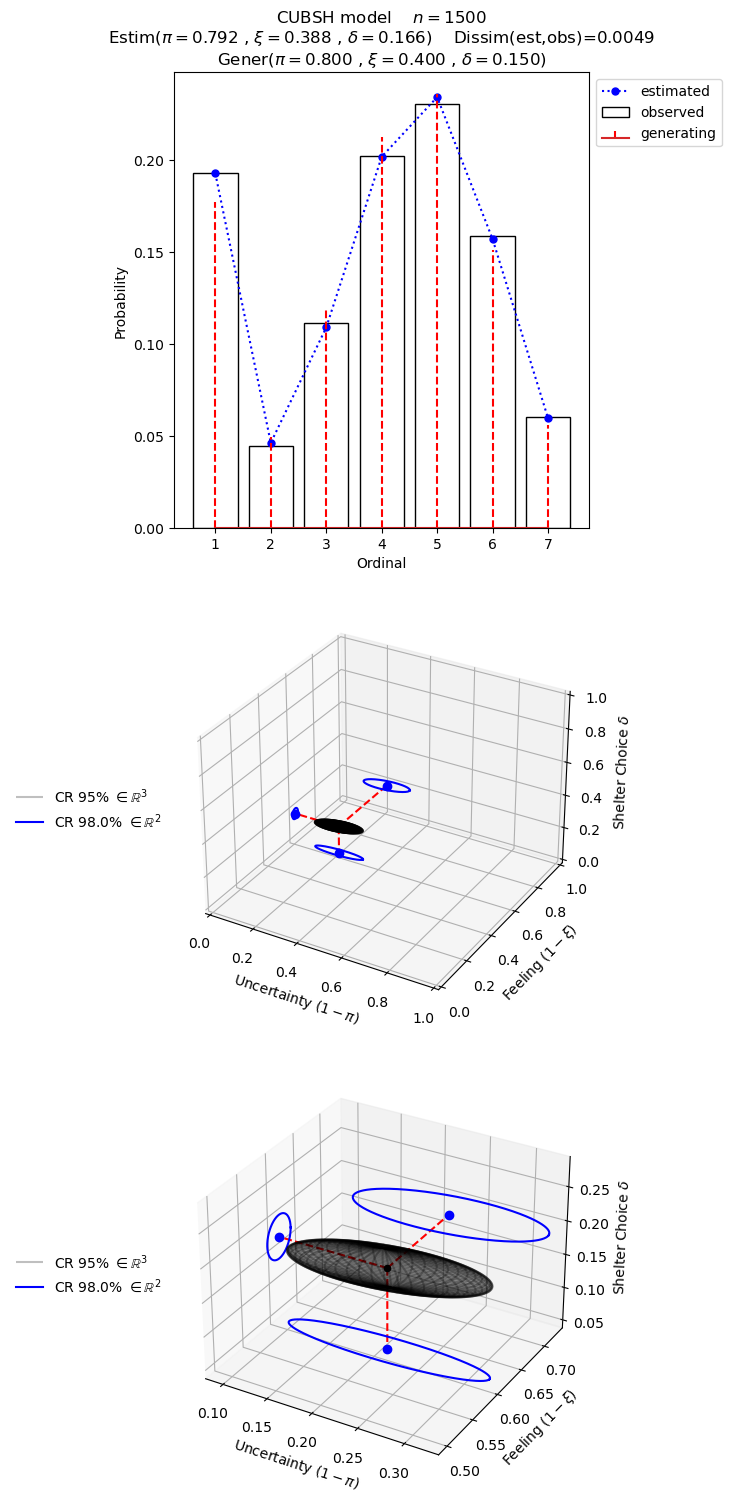
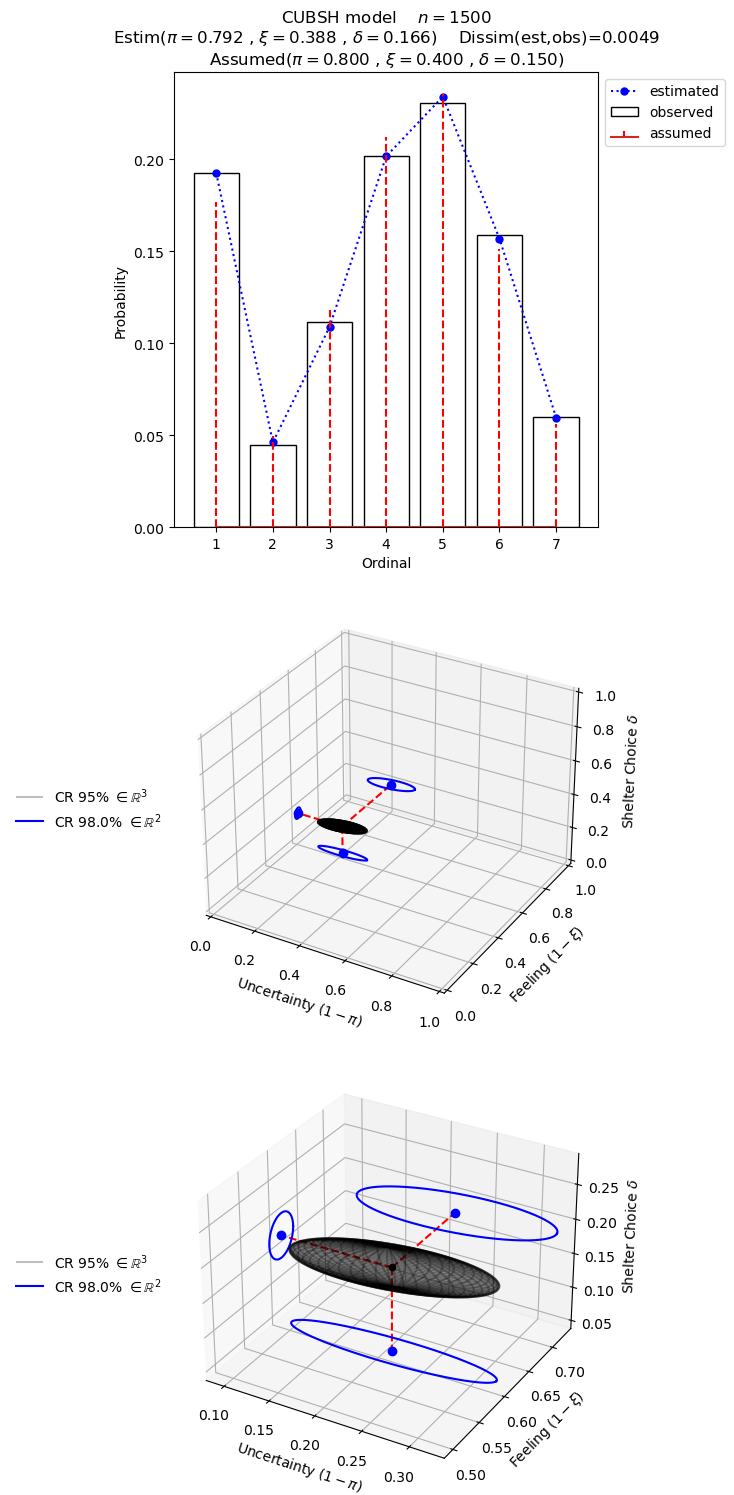
(generating, generator, Gener) > Assumed

diff --git a/cubmods/cush.py b/cubmods/cush.py
@@ -363,10 +363,10 @@ class CUBresCUSH(CUBres):
         if self.ass_pars is not None:
             delta_gen = self.ass_pars["delta"]
             title += "\n"
-            title += fr"Gener($\delta={delta_gen:.3f}$)"
+            title += fr"Assumed($\delta={delta_gen:.3f}$)"
             p_gen = pmf(m=self.m, sh=self.sh, delta=delta_gen)
             ax.stem(R, p_gen, linefmt="--r",
-                markerfmt="none", label="generator")
+                markerfmt="none", label="assumed")
         if kind == "bar":
             ax.bar(R, self.f/self.n,
                 facecolor="None",
@@ -427,7 +427,7 @@ class CUBresCUSH(CUBres):
             delta_gen = self.ass_pars["delta"]
             ax.scatter(delta_gen, 0,
                 facecolor="None",
-                edgecolor="r", s=200, label="generator")
+                edgecolor="r", s=200, label="assumed")
         ax.set_yticks([])
         if not magnified:
             ax.set_xlim((0,1))
@@ -535,13 +535,13 @@ class CUBresCUSH(CUBres):
             delta_gen = self.ass_pars["delta"]
             p_gen = pmf(m=self.m, sh=self.sh, delta=delta_gen)
             ax[0].stem(R, p_gen, linefmt="--r",
-            markerfmt="none", label="generator")
+            markerfmt="none", label="assumed")
             ax[1].scatter(delta_gen, 0,
             facecolor="None",
-            edgecolor="r", s=200, label="generator")
+            edgecolor="r", s=200, label="assumed")
             ax[2].scatter(delta_gen, 0,
             facecolor="None",
-            edgecolor="r", s=200, label="generator")
+            edgecolor="r", s=200, label="assumed")
 
             #X2 = chisquared(
             #    self.f,

diff --git a/cubmods/cube.py b/cubmods/cube.py
@@ -694,11 +694,11 @@ class CUBresCUBE(CUBres):
         #TODO: add dissimilarity from generating model
         if self.ass_pars is not None:
             title += "\n"
-            title += fr"Gener($\pi={self.ass_pars['pi']:.3f}$ , $\xi={self.ass_pars['xi']:.3f}$ , "
+            title += fr"Assumed($\pi={self.ass_pars['pi']:.3f}$ , $\xi={self.ass_pars['xi']:.3f}$ , "
             title += fr"$\phi={self.ass_pars['phi']:.3f}$)"
         # if self.diss_gen is not None:
         #     title += "\n"
-        #     title += fr"Gener($\pi={self.pi_gen:.3f}$ , $\xi={self.xi_gen:.3f}$)"
+        #     title += fr"Assumed($\pi={self.pi_gen:.3f}$ , $\xi={self.xi_gen:.3f}$)"
         #     title += f"    Dissim(est,gen)={self.diss_gen:.6f}"
         ax.set_title(title)
 
@@ -727,7 +727,7 @@ class CUBresCUBE(CUBres):
             phi_gen = self.ass_pars["phi"]
             p_gen = pmf(m=self.m, pi=pi_gen, xi=xi_gen, phi=phi_gen)
             ax.stem(R, p_gen, linefmt="--r",
-            markerfmt="none", label="generating")
+            markerfmt="none", label="assumed")
 
         ax.set_ylim((0, ax.get_ylim()[1]))
         ax.legend(loc="upper left",
@@ -788,7 +788,7 @@ class CUBresCUBE(CUBres):
             #phi_gen = self.ass_pars["phi"]
             ax.scatter(1-pi_gen, 1-xi_gen,
                 facecolor="None",
-                edgecolor="r", s=200, label="generating")
+                edgecolor="r", s=200, label="assumed")
         if confell:
             # Confidence Ellipse
             conf_ell(

diff --git a/cubmods/_cubsh2.py b/cubmods/_cubsh2.py
@@ -596,7 +596,7 @@ class CUBresCUBSH2(CUBres):
             genpi3 = self.ass_pars['pi3']
             genxi  = self.ass_pars['xi']
             title += "\n"
-            title += fr"Gener($\pi_1={genpi1:.3f}$ , "
+            title += fr"Assumed($\pi_1={genpi1:.3f}$ , "
             title += fr"$\pi_2={genpi2:.3f}$ , "
             title += fr"$\pi_3={genpi3:.3f}$ , "
             title += fr"$\xi={genxi:.3f}$ , "
@@ -604,7 +604,7 @@ class CUBresCUBSH2(CUBres):
         #TODO: add diss_gen
         # if self.diss_gen is not None:
         #     title += "\n"
-        #     title += fr"Gener($\pi={self.pi_gen:.3f}$ , $\xi={self.xi_gen:.3f}$)"
+        #     title += fr"Assumed($\pi={self.pi_gen:.3f}$ , $\xi={self.xi_gen:.3f}$)"
         #     title += f"    Dissim(est,gen)={self.diss_gen:.6f}"
         ax.set_title(title)
 
@@ -635,7 +635,7 @@ class CUBresCUBSH2(CUBres):
                 sh1=self.sh[0],
                 sh2=self.sh[1])
             ax.stem(R, p_gen, linefmt="--r",
-                markerfmt="none", label="generating")
+                markerfmt="none", label="assumed")
 
         ax.set_ylim((0, ax.get_ylim()[1]))
         ax.legend(loc="upper left",
@@ -699,7 +699,7 @@ class CUBresCUBSH2(CUBres):
             ax.plot(1-gpi, 1-gxi, 
                 "*r",ms=9, alpha=.5,
                 mfc="none",
-                label="generating")
+                label="assumed")
 
         # Confidence Ellipse
         if confell:

diff --git a/cubmods/cub.py b/cubmods/cub.py
@@ -620,7 +620,7 @@ class CUBresCUB00(CUBres):
         title += f"    Dissim(est,obs)={self.diss:.4f}"
         if self.ass_pars is not None:
             title += "\n"
-            title += fr"Gener($\pi={self.ass_pars['pi']:.3f}$ , $\xi={self.ass_pars['xi']:.3f}$)"
+            title += fr"Assumed($\pi={self.ass_pars['pi']:.3f}$ , $\xi={self.ass_pars['xi']:.3f}$)"
             #title += f"    Dissim(est,gen)={self.diss_gen:.6f}"
         ax.set_title(title)
 
@@ -646,7 +646,7 @@ class CUBresCUB00(CUBres):
         if self.ass_pars is not None:
             p_gen = pmf(self.m, self.ass_pars['pi'], self.ass_pars['xi'])
             ax.stem(R, p_gen, linefmt="--r",
-            markerfmt="none", label="generating")
+            markerfmt="none", label="assumed")
 
         ax.set_ylim((0, ax.get_ylim()[1]))
         ax.legend(loc="upper left",
@@ -701,7 +701,7 @@ class CUBresCUB00(CUBres):
         if self.ass_pars is not None:
             ax.scatter(1-self.ass_pars['pi'], 1-self.ass_pars['xi'],
                 facecolor="None",
-                edgecolor="r", s=200, label="generating")
+                edgecolor="r", s=200, label="assumed")
 
         # change all spines
         for axis in ['left','bottom']:

diff --git a/cubmods/cubsh.py b/cubmods/cubsh.py
@@ -939,12 +939,12 @@ class CUBresCUBSH(CUBres):
             genpi2 = self.ass_pars['pi2']
             genpi, gendelta = pi1pi2_to_pidelta(genpi1, genpi2)
             title += "\n"
-            title += fr"Gener($\pi={genpi:.3f}$ , $\xi={self.ass_pars['xi']:.3f}$ , "
+            title += fr"Assumed($\pi={genpi:.3f}$ , $\xi={self.ass_pars['xi']:.3f}$ , "
             title += fr"$\delta={gendelta:.3f}$)"
         #TODO: add diss_gen
         # if self.diss_gen is not None:
         #     title += "\n"
-        #     title += fr"Gener($\pi={self.pi_gen:.3f}$ , $\xi={self.xi_gen:.3f}$)"
+        #     title += fr"Assumed($\pi={self.pi_gen:.3f}$ , $\xi={self.xi_gen:.3f}$)"
         #     title += f"    Dissim(est,gen)={self.diss_gen:.6f}"
         ax.set_title(title)
 
@@ -973,7 +973,7 @@ class CUBresCUBSH(CUBres):
             xi_gen = self.ass_pars['xi']
             p_gen = pmf(m=self.m, pi1=pi1_gen, pi2=pi2_gen, xi=xi_gen, sh=self.sh)
             ax.stem(R, p_gen, linefmt="--r",
-                markerfmt="none", label="generating")
+                markerfmt="none", label="assumed")
 
         ax.set_ylim((0, ax.get_ylim()[1]))
         ax.legend(loc="upper left",

diff --git a/cubmods/cush2.py b/cubmods/cush2.py
@@ -360,7 +360,7 @@ class CUBresCUSH2(CUBres):
             d1 = self.ass_pars["delta1"]
             d2 = self.ass_pars["delta2"]
             ax.plot(d1, d2, "xr",
-                label="generating",
+                label="assumed",
                 zorder=np.inf)
 
         ax.plot(estd1, estd2, "o", label="estimated")
@@ -425,11 +425,11 @@ class CUBresCUSH2(CUBres):
         title += f"    Dissim(est,obs)={self.diss:.4f}"
         if self.ass_pars is not None:
             title += "\n"
-            title += fr"Gener($\delta_1={self.ass_pars['delta1']:.3f}$ , $\delta_2={self.ass_pars['delta2']:.3f}$)"
+            title += fr"Assumed($\delta_1={self.ass_pars['delta1']:.3f}$ , $\delta_2={self.ass_pars['delta2']:.3f}$)"
             p_gen = pmf(c1=self.sh[0], c2=self.sh[1], d1=estd1, d2=estd2, m=self.m)
             R = choices(m=self.m)
             ax.stem(R, p_gen, linefmt="--r",
-                markerfmt="none", label="generating")
+                markerfmt="none", label="assumed")
         ax.set_title(title)
 
         R = choices(self.m)

diff --git a/cubmods/ihg.py b/cubmods/ihg.py
@@ -307,7 +307,7 @@ class CUBresIHG(CUBres):
         if self.ass_pars is not None:
             ax.scatter(self.ass_pars['theta'], 0,
                 facecolor="None",
-                edgecolor="r", s=200, label="generator")
+                edgecolor="r", s=200, label="assumed")
         ax.legend(loc="upper left",
             bbox_to_anchor=(1,1))
         ax.set_yticks([])
@@ -349,11 +349,11 @@ class CUBresIHG(CUBres):
         title += f"    Dissim(est,obs)={self.diss:.4f}"
         if self.ass_pars is not None:
             title += "\n"
-            title += fr"Gener($\theta={self.ass_pars['theta']:.3f}$)"
+            title += fr"Assumed($\theta={self.ass_pars['theta']:.3f}$)"
             p_gen = pmf(m=self.m, theta=self.ass_pars['theta'])
             R = choices(m=self.m)
             ax.stem(R, p_gen, linefmt="--r",
-                markerfmt="none", label="generating")
+                markerfmt="none", label="assumed")
         ax.set_title(title)
 
         R = choices(self.m)

diff --git a/cubmods/_cubsh2_ywxu.py b/cubmods/_cubsh2_ywxu.py
@@ -474,7 +474,7 @@ class CUBresCUBSH2YWXU(CUBres):
         #TODO: add dissimilarity from generating model
         # if self.diss_gen is not None:
         #     title += "\n"
-        #     title += fr"Gener($\pi={self.pi_gen:.3f}$ , $\xi={self.xi_gen:.3f}$)"
+        #     title += fr"Assumed($\pi={self.pi_gen:.3f}$ , $\xi={self.xi_gen:.3f}$)"
         #     title += f"    Dissim(est,gen)={self.diss_gen:.6f}"
         ax.set_title(title)
 
@@ -505,7 +505,7 @@ class CUBresCUBSH2YWXU(CUBres):
         #         gamma=gamma_gen, phi=phi_gen,
         #         W=self.W)
         #     ax.stem(R, p_gen, linefmt="--r",
-        #     markerfmt="none", label="generating")
+        #     markerfmt="none", label="assumed")
 
         ax.set_ylim((0, ax.get_ylim()[1]))
         ax.legend(loc="upper left",

diff --git a/cubmods/cubsh_ywx.py b/cubmods/cubsh_ywx.py
@@ -680,7 +680,7 @@ class CUBresCUBSHYWX(CUBres):
         #TODO: add dissimilarity from generating model
         # if self.diss_gen is not None:
         #     title += "\n"
-        #     title += fr"Gener($\pi={self.pi_gen:.3f}$ , $\xi={self.xi_gen:.3f}$)"
+        #     title += fr"Assumed($\pi={self.pi_gen:.3f}$ , $\xi={self.xi_gen:.3f}$)"
         #     title += f"    Dissim(est,gen)={self.diss_gen:.6f}"
         ax.set_title(title)
 
@@ -711,7 +711,7 @@ class CUBresCUBSHYWX(CUBres):
         #         gamma=gamma_gen, phi=phi_gen,
         #         W=self.W)
         #     ax.stem(R, p_gen, linefmt="--r",
-        #     markerfmt="none", label="generating")
+        #     markerfmt="none", label="assumed")
 
         ax.set_ylim((0, ax.get_ylim()[1]))
         ax.legend(loc="upper left",

diff --git a/cubmods/cube_0w0.py b/cubmods/cube_0w0.py
@@ -509,7 +509,7 @@ class CUBresCUBE0W0(CUBres):
         #TODO: add dissimilarity from generating model
         # if self.diss_gen is not None:
         #     title += "\n"
-        #     title += fr"Gener($\pi={self.pi_gen:.3f}$ , $\xi={self.xi_gen:.3f}$)"
+        #     title += fr"Assumed($\pi={self.pi_gen:.3f}$ , $\xi={self.xi_gen:.3f}$)"
         #     title += f"    Dissim(est,gen)={self.diss_gen:.6f}"
         ax.set_title(title)
 
@@ -541,7 +541,7 @@ class CUBresCUBE0W0(CUBres):
             #     gamma=gamma_gen, phi=phi_gen,
             #     W=self.W)
             # ax.stem(R, p_gen, linefmt="--r",
-            # markerfmt="none", label="generating")
+            # markerfmt="none", label="assumed")
 
         ax.set_ylim((0, ax.get_ylim()[1]))
         ax.legend(loc="upper left",

diff --git a/cubmods/cube_ywz.py b/cubmods/cube_ywz.py
@@ -827,7 +827,7 @@ class CUBresCUBEYWZ(CUBres):
         #TODO: add dissimilarity from generating model
         # if self.diss_gen is not None:
         #     title += "\n"
-        #     title += fr"Gener($\pi={self.pi_gen:.3f}$ , $\xi={self.xi_gen:.3f}$)"
+        #     title += fr"Assumed($\pi={self.pi_gen:.3f}$ , $\xi={self.xi_gen:.3f}$)"
         #     title += f"    Dissim(est,gen)={self.diss_gen:.6f}"
         ax.set_title(title)
 
@@ -858,7 +858,7 @@ class CUBresCUBEYWZ(CUBres):
         #         gamma=gamma_gen, phi=phi_gen,
         #         W=self.W)
         #     ax.stem(R, p_gen, linefmt="--r",
-        #     markerfmt="none", label="generating")
+        #     markerfmt="none", label="assumed")
 
         ax.set_ylim((0, ax.get_ylim()[1]))
         ax.legend(loc="upper left",

diff --git a/cubmods/smry.py b/cubmods/smry.py
@@ -500,13 +500,13 @@ class CUBsample(object):
                 edgecolor="k", s=200, label="drawn")
         #p = pmf(self.m, self.pi, self.xi)
         ax.stem(R, self.theoric, linefmt="--r",
-            markerfmt="none", label="generator")
+            markerfmt="none", label="theoretical")
         ax.set_xticks(R)
         ax.set_ylim((0, ax.get_ylim()[1]))
         ax.set_xlabel("Ordinal")
         ax.set_ylabel("Probability")
         #TODO: title too long for models with covariates
-        ax.set_title(self)
+        ax.set_title(f"{self.model} drawn sample (n={self.n})")
         ax.legend(loc="upper left",
             bbox_to_anchor=(1,1))
         
